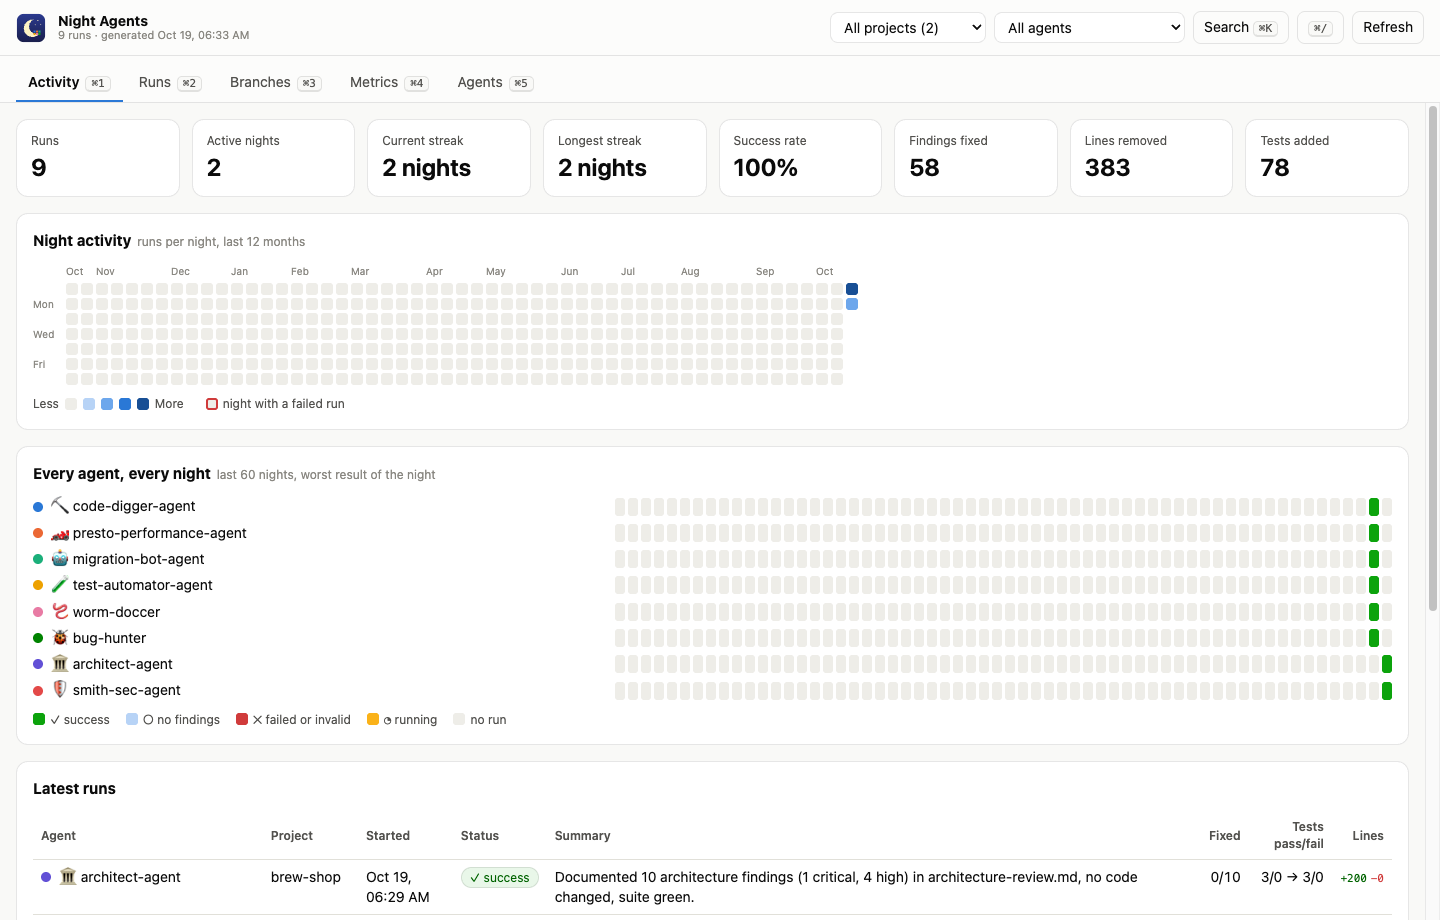
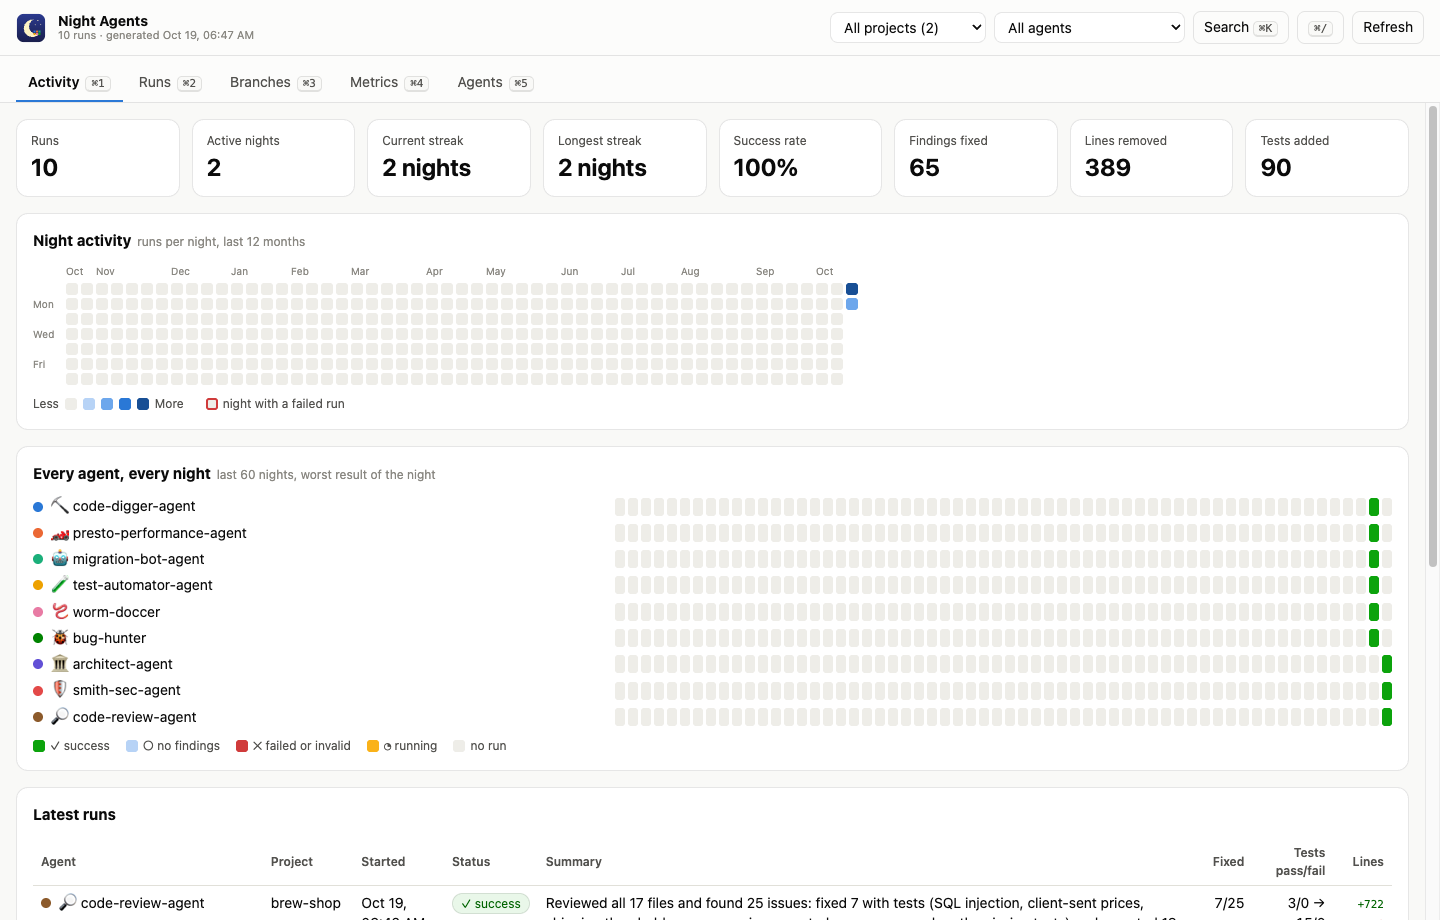
agent-skills: night-agents: add code-review-agent
Full code review agent that fixes what a test proves and reports the rest in code-review.md, with docs, diagram and printscreens.

diff --git a/night-agents/test/night-run.test.js b/night-agents/test/night-run.test.js
@@ -125,3 +125,18 @@ test("finish keeps a report only branch that only adds its findings document", (
   assert.equal(out.status, 0, out.stderr);
   assert.equal(JSON.parse(fs.readFileSync(path.join(run.RUN_DIR, "git.json"), "utf8")).branchKept, true);
 });
+
+test("the code review agent fixes code and documents its review in the same branch", () => {
+  const repo = makeRepo();
+  const home = tempDir("home");
+  const run = start(repo, home, "code-review-agent");
+  fs.writeFileSync(path.join(run.WORKTREE, "cart.js"), "function total(items) {\n  return items.reduce((s, i) => s + i.price, 0);\n}\nmodule.exports = { total };\n");
+  fs.writeFileSync(path.join(run.WORKTREE, "code-review.md"), "## R1: total counts items instead of adding prices\n");
+  sh(run.WORKTREE, "git", ["add", "."]);
+  sh(run.WORKTREE, "git", ["commit", "-q", "-m", "shop: code-review-agent: fix total and document review"]);
+  const findings = [{ ...result().findings[0], kind: "bug", action: "fixed" }, { ...result().findings[0], id: "R2", kind: "design", action: "reported" }];
+  fs.writeFileSync(path.join(run.RUN_DIR, "result.json"), JSON.stringify(result({ findings })));
+  const out = nightRun(repo, home, ["finish", run.RUN_DIR]);
+  assert.equal(out.status, 0, out.stderr);
+  assert.equal(JSON.parse(fs.readFileSync(path.join(run.RUN_DIR, "git.json"), "utf8")).filesChanged, 2);
+});

diff --git a/night-agents/skills/code-review-agent/SKILL.md b/night-agents/skills/code-review-agent/SKILL.md
@@ -1,0 +1,82 @@
+---
+name: code-review-agent
+description: 🔎 Code Review night agent. Reviews all the code of a repository like a senior reviewer - bugs, design problems, logical fallacies, bad code, anti-patterns, broken requirements and missing tests - fixes each finding it can prove with a test, reports the rest, and writes code-review.md on its own branch. Use when the user runs /code-review-agent, /night-agents review, or asks for a full code review of a repository.
+---
+
+# 🔎 Code Review
+
+Review every file like a senior engineer reviewing a pull request that contains the whole repository.
+Fix what you can prove, report what you cannot, and leave a review document a human can act on.
+
+Follow `~/.night-agents/CONTRACT.md`. Agent name: `code-review-agent`.
+
+## 1. Start
+
+Start the run with `night-run.sh start code-review-agent` unless the dispatcher handed you a run,
+install dependencies and record the baseline (contract steps 1 and 2).
+
+## 2. Read the requirements
+
+Read README, docs, design-doc, backlog, API specs, issue references in the code and the tests.
+List every requirement they state: rules, limits, promises to the user, endpoints, error behavior.
+Save the list to `$RUN_DIR/checks/requirements.md`. These are what the code must keep.
+
+## 3. Review every file
+
+Read every source file, test and build file, not a sample. For each one look for:
+
+| Area | Signal |
+|---|---|
+| Bugs | wrong logic, off by one, null handling, money and time mistakes, unhandled errors |
+| Broken requirements | code that does something different from a requirement in step 2 |
+| Logical fallacies | conditions that can never be true, checks in the wrong order, `a || b` where `a && b` is meant, assumptions the data breaks |
+| Design problems | mixed responsibilities, wrong module for the logic, leaking internals, hidden coupling |
+| Anti-patterns | god functions, magic numbers, copy paste rules, primitive obsession, flag arguments, swallowed exceptions, shared mutable state |
+| Bad code | misleading names, dead branches, deep nesting, duplicated expressions, work done twice |
+| Missing tests | core logic with no test, tests that cannot fail, tests that assert only part of the result |
+| Error handling | errors that leak internals, wrong status codes, partial writes |
+
+Each finding needs a file, a line, what is wrong, why it matters, and the evidence: a failing test,
+a command output, or the requirement it breaks. Style preferences without a cost are not findings.
+
+## 4. Fix or report
+
+For each finding, in order of severity:
+
+* **Fix** when the change is local, a test proves it, and it does not change a public contract.
+  Write the test first and see it fail (save to `$RUN_DIR/tdd/<id>-red.log`), make the smallest
+  fix, see it pass (`$RUN_DIR/tdd/<id>-green.log`), run the suite, and commit test and fix together:
+  `<project>: code-review-agent: <what changed>`. Missing tests are fixed by adding the test.
+* **Report** when the fix needs a product decision, changes a public API or schema, is a large
+  redesign, or you cannot prove it. Say what you would change and why.
+* Never weaken a test, never change a requirement to match the code.
+
+## 5. code-review.md
+
+Write `code-review.md` at the repo root of the branch: a summary with counts by area and severity,
+the requirements checked, then one section per finding:
+
+```markdown
+## R1: Free shipping threshold breaks the README promise
+
+- Severity: high
+- Area: broken-requirement
+- Where: src/cart.js:31
+- Problem: shipping is free only above $50, the README promises free shipping over $40
+- Why it matters: customers are charged shipping the shop said was free
+- Evidence: test/cart.test.js "ships free over the promised threshold" failed before the fix
+- Action: fixed
+```
+
+Commit it after the fixes: `<project>: code-review-agent: document code review`.
+
+## 6. Verify, document, finish
+
+Contract steps 4 to 7. `report.md` in `$RUN_DIR` carries the same summary and findings plus the
+red and green log paths. `status` is `success` when at least one finding was fixed.
+
+## Metrics
+
+`filesReviewed`, `findingsFound`, `findingsFixed`, `findingsReported`, `requirementsChecked`,
+`testsAdded`. Finding kinds: `bug`, `broken-requirement`, `logical-fallacy`, `design`,
+`anti-pattern`, `bad-code`, `missing-test`, `error-handling`.

diff --git a/night-agents/README.md b/night-agents/README.md
@@ -2,9 +2,9 @@
 
 # Night Agents
 
-Eight agent skills that work the night shift on your repositories, for Claude Code and Codex. Each one
+Nine agent skills that work the night shift on your repositories, for Claude Code and Codex. Each one
 finds a kind of problem, proves it, works on its own branch, runs the tests before and after,
-and documents the work. Six agents fix what they find, the architect and the security agent only
+and documents the work. Seven agents fix what they find, the architect and the security agent only
 document their findings and never change code. A desktop app shows every night as a GitHub-style activity grid, lets you
 browse every branch the agents created with syntax highlight and line numbers, searches
 everything, and tracks metrics and trends.
@@ -18,6 +18,7 @@ everything, and tracks metrics and trends.
 | 🪱 | `worm-doccer` | `docs` | Checks README, docs, performance.md, backlog.md and design-doc.md against the code and fixes the drift. The code is the source of truth |
 | 🐞 | `bug-hunter` | `bugs` | Hunts bugs, writes `bug-report.md`, fixes each bug with TDD |
 | 🏛 | `architect-agent` | `architect` | Reviews architecture and design: extensibility, separation of concerns, cohesion, coupling, layering and dependency direction. Documents every finding in `architecture-review.md`, never changes code |
+| 🔎 | `code-review-agent` | `review` | Reviews all the code for bugs, design problems, logical fallacies, bad code, anti-patterns, broken requirements and missing tests. Fixes what a test proves, reports the rest, writes `code-review.md` |
 | 🛡 | `smith-sec-agent` | `sec` | Hunts the OWASP Top 10 and zero day classes (prototype pollution, path traversal, ReDoS, races), proves each finding locally, documents it in `security-report.md`, never changes code |
 
 ## How it Works
@@ -28,7 +29,7 @@ everything, and tracks metrics and trends.
 4. It hunts, fixes in small commits, proves each change with a test or a benchmark, and reverts anything that breaks a test. The architect and security agents commit only their findings document.
 5. It runs the tests again, writes `report.md` and `result.json`, and commits the report on its branch.
 6. `night-run.sh finish` validates `result.json`, refuses code changes from the report only agents, records git stats, removes the worktree, deletes empty branches and regenerates the UI.
-7. In Claude Code the eight agents run in parallel as subagents. In Codex they run one after the other.
+7. In Claude Code the nine agents run in parallel as subagents. In Codex they run one after the other.
 8. Runs from every repository land in the same folder, so the UI is multi project out of the box.
 
 Your working copy is never touched: agents only work inside their own worktrees and never push, rebase or merge.
@@ -39,7 +40,7 @@ Your working copy is never touched: agents only work inside their own worktrees 
 
 ## Features
 
-* **Eight skills plus a dispatcher** - each agent is a plain `SKILL.md`, so the same files work in Claude Code and Codex.
+* **Nine skills plus a dispatcher** - each agent is a plain `SKILL.md`, so the same files work in Claude Code and Codex.
 * **One contract** - [`CONTRACT.md`](skills/night-agents/CONTRACT.md) gives every agent the same lifecycle, git rules and `result.json` format.
 * **Worktree isolation** - agents run in parallel without touching your checkout or each other.
 * **Fail loud** - `finish` refuses invalid results, regressions reported as success, and uncommitted work.
@@ -66,7 +67,7 @@ Your working copy is never touched: agents only work inside their own worktrees 
 
 | Command | What |
 |---|---|
-| `/night-agents all` | run the eight agents |
+| `/night-agents all` | run the nine agents |
 | `/night-agents digger presto` | run the named agents (names or aliases) |
 | `/night-agents architect sec` | run the architecture and security reviews |
 | `/night-agents` | ask which agents to run |
@@ -178,7 +179,7 @@ KPIs with the trend versus the previous half of the range, runs per week by agen
 
 ![agents](printscreens/7-agents.png)
 
-The eight agents with icon, description, command, totals of their own metrics and their last 30 nights.
+The nine agents with icon, description, command, totals of their own metrics and their last 30 nights.
 
 ### Search
 

diff --git a/README.md b/README.md
@@ -21,4 +21,4 @@ Agent-Skills: Repo with agent skills for claude/codex.
 | [macos-electron-apps](macos-electron-apps) | Skill with the rules for macOS and Electron apps: light theme, rounded logo, install/uninstall scripts that guarantee a single installed version and a single running instance, restored window position, working copy/paste, and the standard `CMD + k` / `CMD + /` / zoom / tab / screenshot / fullscreen shortcuts. `install.sh` asks for Claude, Codex or both and copies the skill to `~/.claude/skills` and/or `~/.codex/skills`. |
 | [commands](commands) | Slash commands shared across agents. `/do <prompt>` reads or creates a design doc, adds the request to `backlog.md` under `TODO` / `WIP` / `DONE`, implements it, keeps the build and tests green, and updates the readme, changelog and backlog. `install.sh` asks for Claude, Codex or both and copies the commands to `~/.claude/commands` and/or `~/.codex/prompts`. |
 | [fact-checker](fact-checker) | Skill and `/fact-check` command that adversarially checks the claims in an HTML report, a URL, a path or a plain prompt. Every claim becomes a numbered fact (`F1: is Google just a search engine?`), is researched on the web for and against, and is ruled `true`, `false`, `partly` or `unverifiable` — no source means unverifiable, never true. Contradicting facts are flagged on both cards and the True and False groups are triple checked. Renders one self-contained light-theme HTML report with a verdict scoreboard, a search box over every fact, and one clickable card per fact into `~/git/diegopacheco/html-research/`. Follows the [html-research](html-research) report contract. `install.sh [claude|codex|both]` asks for Claude, Codex or both when no argument is given. |
-| [night-agents](night-agents) | Eight night agent skills for Claude and Codex - `code-digger-agent` (dead code), `presto-performance-agent` (performance), `migration-bot-agent` (dependency bumps and migrations), `test-automator-agent` (missing tests), `worm-doccer` (docs in sync with code), `bug-hunter` (bugs fixed with TDD), `architect-agent` (architecture, design, extensibility, separation of concerns and cohesion review) and `smith-sec-agent` (OWASP Top 10 and zero day security review) - run with `/night-agents all`, `/night-agents <alias>` or `/night-agents` to pick. Each agent works in its own git worktree and branch, runs the tests before and after, documents its work, and records the run under `~/.night-agents/runs/<date>/<project>/`. A pregenerated light-theme macOS Electron app shows a GitHub-style nightly activity grid, every agent branch with syntax highlight, line numbers and search, and metrics with trends. Ships a sample project with planted problems. `install.sh [claude|codex|both]`. |
+| [night-agents](night-agents) | Nine night agent skills for Claude and Codex - `code-digger-agent` (dead code), `presto-performance-agent` (performance), `migration-bot-agent` (dependency bumps and migrations), `test-automator-agent` (missing tests), `worm-doccer` (docs in sync with code), `bug-hunter` (bugs fixed with TDD), `architect-agent` (architecture, design, extensibility, separation of concerns and cohesion review) `smith-sec-agent` (OWASP Top 10 and zero day security review) and `code-review-agent` (full code review: bugs, design, logical fallacies, anti-patterns, broken requirements, missing tests, fixed and reported) - run with `/night-agents all`, `/night-agents <alias>` or `/night-agents` to pick. Each agent works in its own git worktree and branch, runs the tests before and after, documents its work, and records the run under `~/.night-agents/runs/<date>/<project>/`. A pregenerated light-theme macOS Electron app shows a GitHub-style nightly activity grid, every agent branch with syntax highlight, line numbers and search, and metrics with trends. Ships a sample project with planted problems. `install.sh [claude|codex|both]`. |

diff --git a/night-agents/design-doc.md b/night-agents/design-doc.md
@@ -15,7 +15,7 @@
 
 | Feature | Where |
 |---|---|
-| Eight night agents as skills | `skills/<agent>/SKILL.md` |
+| Nine night agents as skills | `skills/<agent>/SKILL.md` |
 | `/night-agents all`, `/night-agents <alias>`, `/night-agents` (asks) | `skills/night-agents/SKILL.md`, `commands/night-agents.md` |
 | Install for Claude, Codex or both | `install.sh`, `uninstall.sh` |
 | Run lifecycle, git stats, branch cleanup | `bin/night-run.sh` |
@@ -51,7 +51,7 @@ Branches are named `night-agents/<agent>/<yyyy-mm-dd>-<hhmmss>`.
 ## TradeOffs
 
 * Worktrees cost a dependency install per agent per night. In exchange the user's checkout is never
-  touched and the eight agents can run in parallel.
+  touched and the nine agents can run in parallel.
 * The site embeds every changed file and diff in `data.js`. Simple and fully searchable offline,
   but large histories make a large file. Files are capped at 300 KB each.
 * Branch snapshots are cached in `branch.json`, so history survives merged and deleted branches,
@@ -68,7 +68,9 @@ Branches are named `night-agents/<agent>/<yyyy-mm-dd>-<hhmmss>`.
   failures than before must be `failed`. The generator marks broken results `invalid`.
 * Git rules follow the git skill: merge only, never rebase, never push, commit messages prefixed
   with the project name, no `Co-Authored-By` lines.
-* Agent colors are the validated categorical palette slots 1 to 8, in fixed order.
+* Agent colors are the validated categorical palette slots 1 to 8, in fixed order. The palette has eight
+  slots, so `code-review-agent` uses brown `#8c5a2b`, outside the validated set, always shown next to its
+  icon and name so color is never the only cue.
 * `architect-agent` and `smith-sec-agent` are `reportOnly` in `agents.json`. They document findings
   and never change code: their findings must be `reported`, and `finish` refuses a branch that touches
   anything besides their `reportFile` and `.night-agents/`. A review that quietly rewrites code would
@@ -91,6 +93,7 @@ Branches are named `night-agents/<agent>/<yyyy-mm-dd>-<hhmmss>`.
 | worm-doccer | README says Postgres, port 3000, `npm run dev`, `npm run test:unit`, a `FREESHIP` coupon, a search path and a DELETE endpoint that do not exist, and misses seven real endpoints; design-doc lists `src/inventory.js` and cents storage; performance.md claims indexes; backlog lists shipped features as TODO |
 | bug-hunter | same coupon applied twice stacks; coupon expiry parsed as UTC midnight; free shipping uses `>` while the shop promises "$50 or more"; pagination is 0 based while callers send page 1; email uniqueness is case sensitive; money never rounded to cents; the server trusts prices sent by the client |
 | architect-agent | `src/server.js` route `/api/customers/:id` runs SQL and formats money itself instead of going through `src/customers.js`; `src/admin.js` mixes auth and reporting; the admin token is hardcoded instead of configured; `design-doc.md` lists modules the code does not have |
+| code-review-agent | README promises free shipping over $40 while `shipping` charges up to $50 (broken requirement); the same coupon counts twice in one cart (logical fallacy); `checkout` computes `shipping(net)` twice (bad code); inline SQL in a route (design); the only cart test asserts the subtotal and never the total (missing test) |
 | smith-sec-agent | SQL injection in `salesByOrigin` (`/api/admin/sales?origin=`); hardcoded admin token compared with `==` and sent in the query string; `/api/customers/:id` returns any customer's email with no auth (IDOR); no auth on order history; the server trusts client prices; `express` 4.17.1 has known advisories |
 
 ## How to Run

diff --git a/night-agents/skills/night-agents/SKILL.md b/night-agents/skills/night-agents/SKILL.md
@@ -1,6 +1,6 @@
 ---
 name: night-agents
-description: 🌙 Night Agents dispatcher. Runs one, several or all of the eight night agents (code-digger-agent, presto-performance-agent, migration-bot-agent, test-automator-agent, worm-doccer, bug-hunter, architect-agent, smith-sec-agent) against the current git repository, each on its own branch and worktree, and records every run under ~/.night-agents/runs/<date>/. Use when the user runs /night-agents, /night-agents all, /night-agents <agent>, $night-agents, or asks to run the night agents, the night shift or the night workers.
+description: 🌙 Night Agents dispatcher. Runs one, several or all of the nine night agents (code-digger-agent, presto-performance-agent, migration-bot-agent, test-automator-agent, worm-doccer, bug-hunter, architect-agent, smith-sec-agent, code-review-agent) against the current git repository, each on its own branch and worktree, and records every run under ~/.night-agents/runs/<date>/. Use when the user runs /night-agents, /night-agents all, /night-agents <agent>, $night-agents, or asks to run the night agents, the night shift or the night workers.
 ---
 
 # 🌙 Night Agents
@@ -22,17 +22,18 @@ Read `CONTRACT.md` next to this file (also at `~/.night-agents/CONTRACT.md`) bef
 | 🐞 | `bug-hunter` | `bugs` | Hunts bugs, writes bug-report.md, fixes them with TDD |
 | 🏛 | `architect-agent` | `architect` | Reviews architecture, design, extensibility, SoC and cohesion, documents findings |
 | 🛡 | `smith-sec-agent` | `sec` | Hunts OWASP Top 10 and zero day classes, documents findings |
+| 🔎 | `code-review-agent` | `review` | Reviews all code for bugs, design, fallacies, anti-patterns, broken requirements and missing tests, fixes and reports |
 
 ## Arguments
 
 The input is `$ARGUMENTS`.
 
-* `all` runs the eight agents.
+* `all` runs the nine agents.
 * One or more agent names or aliases, separated by spaces or commas: `presto`, `bugs docs`,
   `digger,tests`. Full names work too.
 * Empty: ask the user which agents to run. In Claude Code use `AskUserQuestion` with
-  `multiSelect: true` in two questions (`digger`, `presto`, `migration`, `tests` and `docs`, `bugs`,
-  `architect`, `sec`).
+  `multiSelect: true` in three questions (`digger`, `presto`, `migration`; `tests`, `docs`, `bugs`;
+  `architect`, `sec`, `review`).
   In Codex ask in plain text with the table above. Wait for the answer.
 * An unknown name: list the valid names and aliases and stop.
 
@@ -57,7 +58,7 @@ The input is `$ARGUMENTS`.
      final message block.
    * Codex or any agent without subagents: run them one at a time in this order: `bug-hunter`,
      `code-digger-agent`, `presto-performance-agent`, `test-automator-agent`, `migration-bot-agent`,
-     `worm-doccer`, `architect-agent`, `smith-sec-agent`. Read each agent's `SKILL.md` and follow it with the values from step 1.
+     `worm-doccer`, `architect-agent`, `smith-sec-agent`, `code-review-agent`. Read each agent's `SKILL.md` and follow it with the values from step 1.
 3. Report progress as `x/y` agents finished at least once a minute.
 4. When an agent fails, record it and go on with the next one. One failing agent never stops the night.
 5. Every started run must end with `night-run.sh finish`, even a failed one: write a `result.json`

diff --git a/night-agents/commands/night-agents.md b/night-agents/commands/night-agents.md
@@ -1,6 +1,6 @@
 # /night-agents
 
-Usage: `/night-agents [all | digger | presto | migration | tests | docs | bugs | architect | sec ...]`
+Usage: `/night-agents [all | digger | presto | migration | tests | docs | bugs | architect | sec | review ...]`
 
 Input:
 
@@ -8,9 +8,9 @@ $ARGUMENTS
 
 Use the `night-agents` skill. Read its `SKILL.md` and `~/.night-agents/CONTRACT.md` before doing anything.
 
-* `all` runs the eight night agents.
+* `all` runs the nine night agents.
 * One or more names or aliases run only those agents.
-* Empty input: show the eight agents with their icons and ask which ones to run, then wait.
+* Empty input: show the nine agents with their icons and ask which ones to run, then wait.
 
 Every agent runs on its own branch in its own git worktree, records its run under
 `~/.night-agents/runs/<yyyy-mm-dd>/<project>/`, and ends with `night-run.sh finish`.

diff --git a/night-agents/backlog.md b/night-agents/backlog.md
@@ -11,6 +11,7 @@
 
 * Six night agents as skills for Claude Code and Codex.
 * `architect-agent` and `smith-sec-agent`, report only reviews for architecture and security.
+* `code-review-agent`, a full code review that fixes what a test proves and reports the rest.
 * `/night-agents` dispatcher with `all`, aliases, and an interactive pick.
 * `install.sh` and `uninstall.sh` for Claude, Codex or both.
 * `night-run.sh` run lifecycle with worktrees, git stats and branch cleanup.
